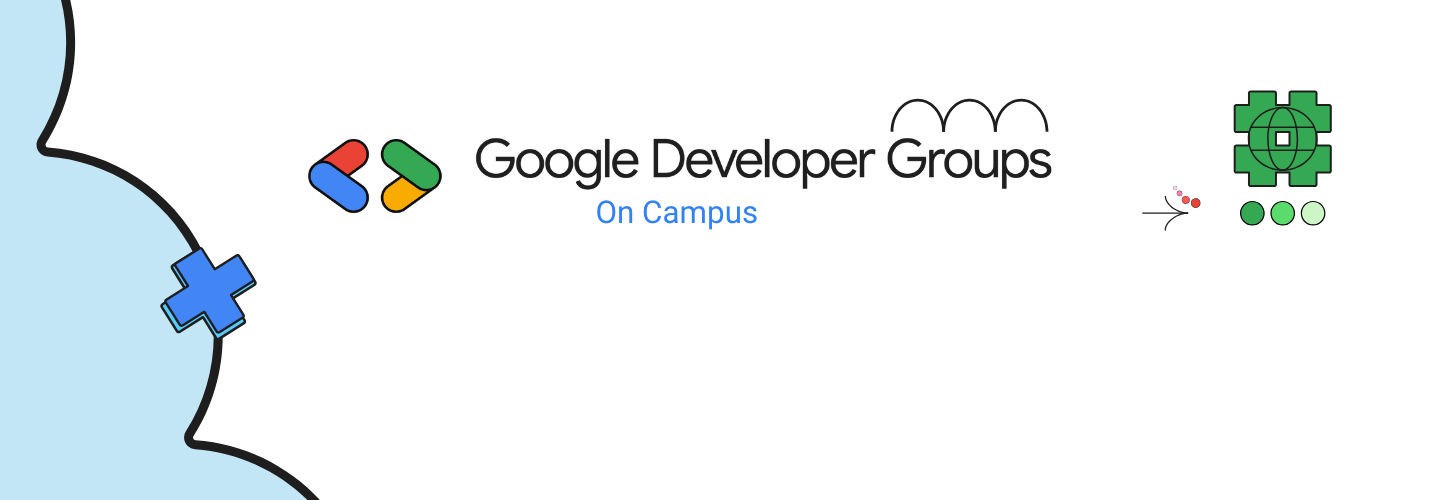
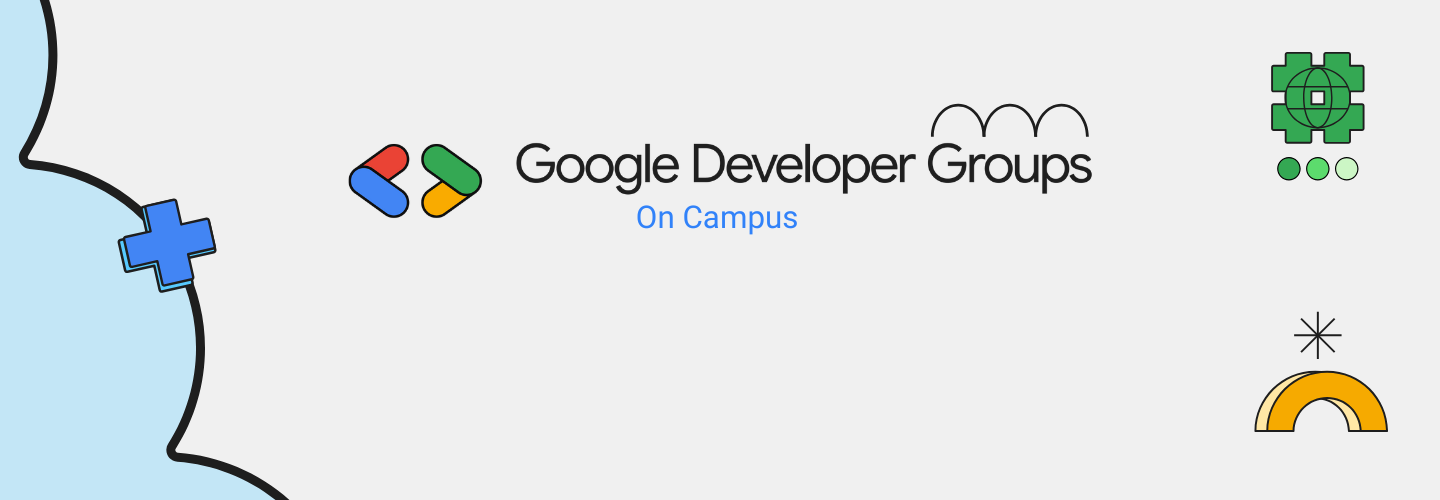
footer

diff --git a/client/src/pages/Footer.tsx b/client/src/pages/Footer.tsx
@@ -1,198 +1,84 @@
 import React from "react";
 import { Link } from "react-router-dom";
-import { FaLinkedin } from "react-icons/fa";
-import { FaInstagramSquare } from "react-icons/fa";
-import logo from "../home-assets/logo_stacked.png";
-
-{/*import React from "react";
-import { Link } from "react-router-dom";
-import { FaLinkedin } from "react-icons/fa";
-import { FaInstagramSquare } from "react-icons/fa";
+import { FaLinkedin, FaInstagramSquare } from "react-icons/fa";
 import logo from "../home-assets/logo_stacked.png";
 
 const Footer: React.FC = () => {
   return (
-    <footer
-      style={{ scrollBehavior: "smooth" }}
-      className="p-8 shadow-lg mt-8 "
-    >
-      <div className="container mx-auto flex flex-col lg:flex-row justify-between items-center gap-8">
+    <footer className="text-gray-600 shadow-lg mt-4">
+      <div className="container mx-auto px-24 py-5 flex flex-col lg:flex-row justify-between items-center gap-8">
 
-        <div className="w-full lg:w-auto flex justify-center lg:justify-start">
-
+        <div className="text-center">
           <img
             src={logo}
             alt="GDSC Logo"
-            className="w-40 h-auto mx-auto mb-3"
+            className="w-28 mx-auto mb-3"
           />
-
-          
         </div>
 
-        <div className="w-full lg:w-auto flex flex-col items-center lg:items-end text-center lg:text-right">
+        <div className="text-center">
+          <p className="mb-2 font-medium">Join us at GDGC.</p>
+          <p className="mb-7 text-sm">
+            Discover amazing events and connect with like-minded people.
+          </p>
 
-          <div className="w-full lg:w-auto text-center">
-            <p className="mb-4 text-black-600 text-lg font-semibold">
-              Have any questions?
-            </p>
-            <div className="flex justify-center items-center space-x-2">
-              <Link to="/contact-us">
-                <button
-                  onClick={() => window.scrollTo({ top: 0, behavior: "smooth" })}
-                  className="px-4 py-2 bg-blue-500 mb-4 text-white rounded-lg shadow-lg hover:shadow-xl transition duration-300 transform hover:scale-105 hover:animate-pulse"
-                >
-                  Contact Us
-                </button>
+          <div className="flex flex-wrap justify-center gap-6 font-semibold text-sm">
+            {[
+              { name: "Terms & Conditions", path: "/terms-and-conditions", color: "hover:text-green-700" },
+              { name: "Privacy Policy", path: "/privacy-policy", color: "hover:text-blue-700" },
+              { name: "Refund Policy", path: "/refund-policy", color: "hover:text-red-700" },
+              { name: "Community Guidelines", path: "/community-guidelines", color: "hover:text-yellow-700" },
+            ].map((item) => (
+              <Link
+                key={item.name}
+                to={item.path}
+                onClick={() => window.scrollTo({ top: 0, behavior: "smooth" })}
+                className={`group ${item.color}`}
+              >
+                {item.name}
+                <span className="block h-[2px] w-0 bg-current transition-all duration-300 group-hover:w-full"></span>
               </Link>
-              <div className="flex justify-center space-x-4 mt-4">
-                <a href="https://www.instagram.com/gdsc.vnrvjiet/" target="_blank">
-                  <FaInstagramSquare size={25} />
-                </a>
-                <a href="https://www.linkedin.com/company/gdsc-vnrvjiet/" target="_blank">
-                  <FaLinkedin size={25} />
-                </a>
-              </div>
-            </div>
-          </div>
-          <div className="w-full lg:w-auto flex flex-wrap justify-center space-x-6 mb-7 font-semibold">
-            <Link
-              onClick={() => window.scrollTo({ top: 0, behavior: "smooth" })}
-              to="/terms-and-conditions"
-              className="text-black-600 hover:text-green-800 transition duration-300 group"
-            >
-              Terms & Conditions
-              <span className="block h-[2px] w-0 bg-current transition-all duration-300 group-hover:w-full"></span>
-            </Link>
-            <Link
-              to="/privacy-policy"
-              onClick={() => window.scrollTo({ top: 0, behavior: "smooth" })}
-              className="text-black-600 hover:text-blue-800 transition duration-300 group"
-            >
-              Privacy policy
-              <span className="block h-[2px] w-0 bg-current transition-all duration-300 group-hover:w-full"></span>
-            </Link>
-            <Link
-              to="/refund-policy"
-              onClick={() => window.scrollTo({ top: 0, behavior: "smooth" })}
-              className="text-black-600 hover:text-red-800 transition duration-300 group"
-            >
-              Refund policy
-              <span className="block h-[2px] w-0 bg-current transition-all duration-300 group-hover:w-full"></span>
-            </Link>
-            <Link
-              to="/community-guidelines"
-              onClick={() => window.scrollTo({ top: 0, behavior: "smooth" })}
-              className="text-black-600 hover:text-yellow-800 transition duration-300 group"
-            >
-              Community Guidelines
-              <span className="block h-[2px] w-0 bg-current transition-all duration-300 group-hover:w-full"></span>
-            </Link>
+            ))}
           </div>
         </div>
+
+       
+        <div className="text-center">
+          <p className="mb-4 text-black font-semibold text-lg">
+            Have any questions?
+          </p>
+
+          <Link
+            to="/contact-us"
+            onClick={() => window.scrollTo({ top: 0, behavior: "smooth" })}
+          >
+            <button className="px-5 py-2 bg-blue-600 text-white rounded-lg shadow-lg hover:shadow-xl transition transform hover:scale-105">
+              Contact Us
+            </button>
+          </Link>
+
+          <div className="flex justify-center space-x-5 mt-4">
+            <a
+              href="https://www.instagram.com/gdsc.vnrvjiet/"
+              target="_blank"
+              rel="noopener noreferrer"
+              aria-label="Instagram"
+            >
+              <FaInstagramSquare size={26} />
+            </a>
+            <a
+              href="https://www.linkedin.com/company/gdsc-vnrvjiet/"
+              target="_blank"
+              rel="noopener noreferrer"
+              aria-label="LinkedIn"
+            >
+              <FaLinkedin size={26} />
+            </a>
+          </div>
+        </div>
+
       </div>
     </footer>
-  );
-};
-
-export default Footer;
-*/}
-
-
-const Footer: React.FC = () => {
-  return (
-<footer
-  style={{ scrollBehavior: "smooth" }}
-  className="p-8 shadow-lg mt-8 "
->
-  <div className="max-w-7xl mx-auto flex flex-col lg:flex-row justify-between items-center gap-10">
-
-    {/* Left Logo */}
-    <div className="flex justify-center lg:justify-start w-full lg:w-auto">
-      <img
-        src={logo}
-        alt="GDSC Logo"
-        className="w-40 h-auto"
-      />
-    </div>
-
-    {/* Right Content */}
-    <div className="flex flex-col items-center lg:items-end text-center lg:text-right gap-4 w-full lg:w-auto">
-
-      <p className="text-black-600 text-lg font-semibold">
-        Have any questions?
-      </p>
-
-      {/* Contact + Icons Row */}
-      <div className="flex items-center gap-4">
-        <Link to="/contact-us">
-          <button
-            onClick={() => window.scrollTo({ top: 0, behavior: "smooth" })}
-            className="px-4 py-2 bg-blue-500 text-white rounded-lg shadow-lg hover:shadow-xl transition duration-300 transform hover:scale-105"
-          >
-            Contact Us
-          </button>
-        </Link>
-
-        <a
-          href="https://www.instagram.com/gdsc.vnrvjiet/"
-          target="_blank"
-          rel="noreferrer"
-        >
-          <FaInstagramSquare size={25} />
-        </a>
-
-        <a
-          href="https://www.linkedin.com/company/gdsc-vnrvjiet/"
-          target="_blank"
-          rel="noreferrer"
-        >
-          <FaLinkedin size={25} />
-        </a>
-      </div>
-
-      {/* Policy Links */}
-      <div className="flex flex-wrap justify-center lg:justify-end space-x-6 font-semibold mt-2">
-
-        <Link
-          to="/terms-and-conditions"
-          onClick={() => window.scrollTo({ top: 0, behavior: "smooth" })}
-          className="hover:text-green-800 transition duration-300 group"
-        >
-          Terms & Conditions
-          <span className="block h-[2px] w-0 bg-current transition-all duration-300 group-hover:w-full"></span>
-        </Link>
-
-        <Link
-          to="/privacy-policy"
-          onClick={() => window.scrollTo({ top: 0, behavior: "smooth" })}
-          className="hover:text-blue-800 transition duration-300 group"
-        >
-          Privacy policy
-          <span className="block h-[2px] w-0 bg-current transition-all duration-300 group-hover:w-full"></span>
-        </Link>
-
-        <Link
-          to="/refund-policy"
-          onClick={() => window.scrollTo({ top: 0, behavior: "smooth" })}
-          className="hover:text-red-800 transition duration-300 group"
-        >
-          Refund policy
-          <span className="block h-[2px] w-0 bg-current transition-all duration-300 group-hover:w-full"></span>
-        </Link>
-
-        <Link
-          to="/community-guidelines"
-          onClick={() => window.scrollTo({ top: 0, behavior: "smooth" })}
-          className="hover:text-yellow-800 transition duration-300 group"
-        >
-          Community Guidelines
-          <span className="block h-[2px] w-0 bg-current transition-all duration-300 group-hover:w-full"></span>
-        </Link>
-
-      </div>
-    </div>
-  </div>
-</footer>
   );
 };
 

diff --git a/client/src/pages/Hero.tsx b/client/src/pages/Hero.tsx
@@ -2,7 +2,7 @@ import React from "react";
 import { useNavigate } from "react-router-dom";
 import { SocialIcon } from "react-social-icons";
 //import banner_1440X500px from "../home-assets/banner_1440X500px.png";
-import banner_1440X500px from "../home-assets/grid_Banner_1440X500px.png"
+import banner_1440X500px from "../home-assets/Banner_1440X500px_white.png"
 
 function Hero() {
   const heroStyle = {
@@ -20,10 +20,11 @@ function Hero() {
   };
 
   return (
-    <div
-      className="HeroSection flex flex-col items-center justify-center bg-cover bg-center bg-no-repeat "
-      style={heroStyle}
-    >
+   <div
+  className="HeroSection flex flex-col items-center justify-center 
+             bg-cover bg-center bg-no-repeat "
+  style={heroStyle}
+>
       {/*<div className="mx-auto text-center mb-5">
         < img
           className="gdsc_logo mx-auto p-3"

diff --git a/client/src/pages/Home.tsx b/client/src/pages/Home.tsx
@@ -322,16 +322,6 @@ function Home() {
             ))}
           </Reveal>
         </div>
-        <Reveal>
-          <div className="mt-10 text-white flex flex-col gap-4 items-center p-6">
-            <p className="text-xl text-gray-600 font-semibold">
-              Join us, at GDGC.
-            </p>
-            <p className="text-gray-500 text-lg text-center">
-              Discover amazing events and connect with like-minded people.
-            </p>
-          </div>
-        </Reveal>
       </div>
     </div>
   );
